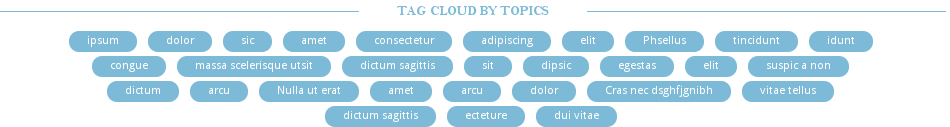
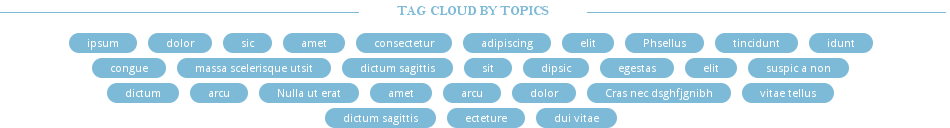
Fixes for homepage.js test

diff --git a/jekyll/app/_scss/_homepage.scss b/jekyll/app/_scss/_homepage.scss
@@ -25,6 +25,7 @@
         display: inline-block;
         vertical-align: top;
         color: $darkgray;
+        font-family: Arial;
         font-weight: bold;
         letter-spacing: -0.98px;
       }
@@ -73,7 +74,7 @@
   }
 
   .tags-cloud-wrapper {
-    margin-top: 47px;
+    margin-top: 45px;
     margin-bottom: 75px;
 
     h3 {
@@ -89,7 +90,7 @@
         display: inline-block;
         border-bottom: 1px solid $lightBlue;
         width: 38%;
-        padding-top: 11px;
+        padding-top: 12px;
 
         @media (max-width: 850px) {
           display: none;
@@ -106,7 +107,7 @@
     }
 
     .tags-cloud {
-      padding-top: 3px;
+      padding-top: 6px;
       max-width: 815px;
       margin: 0 auto;
 
@@ -131,7 +132,7 @@
   .wrapper {
     footer {
       .login-area {
-        margin-top:7px;
+        margin-top:6px;
 
         ul {
           padding-top: 0px;

diff --git a/jekyll/app/_scss/main.scss b/jekyll/app/_scss/main.scss
@@ -299,18 +299,17 @@ a, a:hover, a:visited {
       margin-top: 20px;
 
       ul {
-        padding-top: 6px;
+        padding-top: 5px;
         letter-spacing: -0.7px;
         display: inline-block;
-        margin-left: -8px;
 
         &:before, &:after {
-          margin-top: 9px;
           padding: 0;
           content: '+';
           font-size: 12px;
           font-weight: bold;
           color: $lightBlue;
+          display: inline-block;
         }
 
       }
@@ -333,7 +332,7 @@ a, a:hover, a:visited {
         }
 
         &.first {
-          padding-left: 22px;
+          padding-left: 18px;
         }
 
         &.last {
@@ -343,7 +342,7 @@ a, a:hover, a:visited {
 
       a {
         color: $lightBlue;
-        font: 18px bell_mtbold;
+        font: 14px bell_mtbold;
         padding: 0;
         display: inline;
       }
